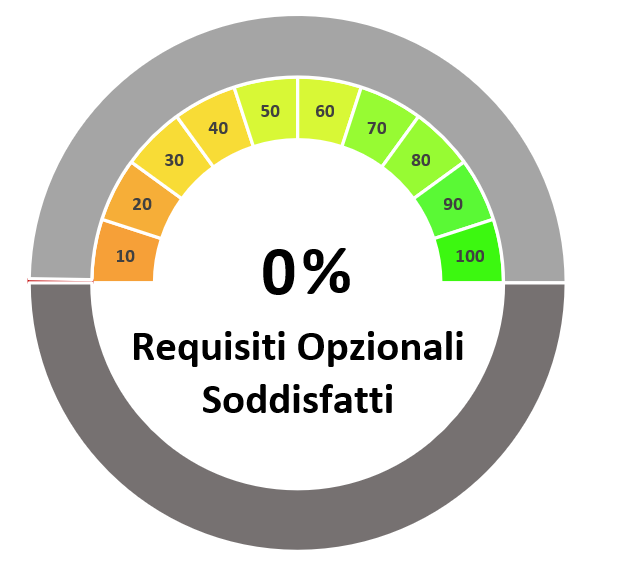
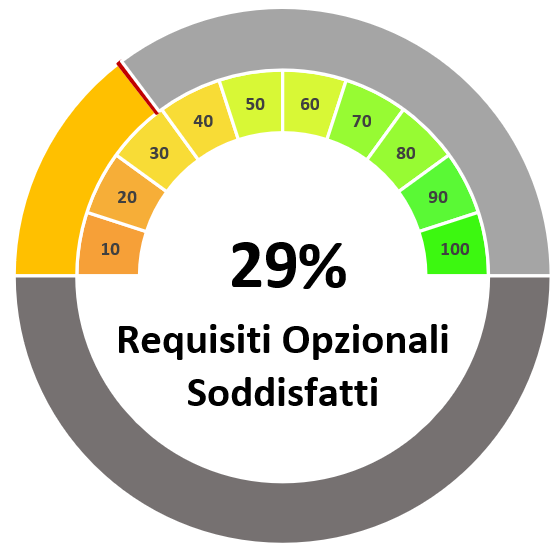
Aggiornamento cruscotto

diff --git a/3-PB/Documentazione_esterna/Piano_di_qualifica/cruscotto.tex b/3-PB/Documentazione_esterna/Piano_di_qualifica/cruscotto.tex
@@ -105,8 +105,7 @@ Come osservabile dai valori riportati dal grafico, l'ampia analisi dei rischi ef
     \end{minipage}
 \end{figure}
 \subsection{Analisi}
-Il progetto fino ad ora ha prodotto un Proof of Concept, dunque nessun prodotto finale con il quale soddisfare alcun requisito.\\Per questo motivo è normale che nel cruscotto non risulti soddisfatto nessun requisito.
-
+Il progetto ha prodotto un Minimum Viable Product, dunque soddisfa obbligatoriamente i requisiti obbligatori. Il gruppo inoltre, si è dedicato a implementare anche alcuni dei requisiti desiderabili e opzionali concordati con l'azienda. La decisione di soddisfare alcuni requisiti opzionali rispetto a completare quelli desiderabili, nonostante essi siano di minor rilievo, è data dalla ridotta quantità di risorse che questi richiedevano per essere soddisfatti.
 \section{Indice di Gulpease}
 \begin{figure}[H]
     \centering
@@ -144,3 +143,12 @@ Il progetto fino ad ora ha prodotto un Proof of Concept, dunque nessun prodotto 
 \subsection{Analisi}
 Analizzando i valori del cruscotto, è immediato notare che l'indice di ogni verbale è sempre stato superiore alla soglia di accettabilità. È inoltre utile notare che la maggior parte degli indici di Gulpease più bassi sono stati registrati in verbali esterni, mostrando come la natura più discorsiva di tali verbali mette a rischio maggiormente la leggibilità dei documenti.\\
 L'elevata variabilità dei valori tra un documento e l'altro certifica la difficoltà nel migliorare tale metrica di qualità. Per questo motivo, è importante in futuro continuare a prestare attenzione alla struttura dei periodi delle frasi, in quanto un calo di attenzione porterebbe l'indice di un documento a non rispettare il valore di accettabilità.
+
+\section{Code coverage}
+\begin{figure}[H]
+    \centering
+    \includegraphics[width=0.45\linewidth]{codecoverage.png}
+    \caption{Code coverage}
+\end{figure}
+\subsection{Analisi}
+Il gruppo ha codificato i testi di unità per tutte le classi del back-end e per buona parte dei componenti del front-end. I test realizzati sono stati tutti superati dall'applicazione e attraverso gli strumenti di code coverage integrati nell'ambiente di test è stato possibile raggiungere una percentuale del 84.6\%, che rispetta i valori minimi autoimpostisi. 
